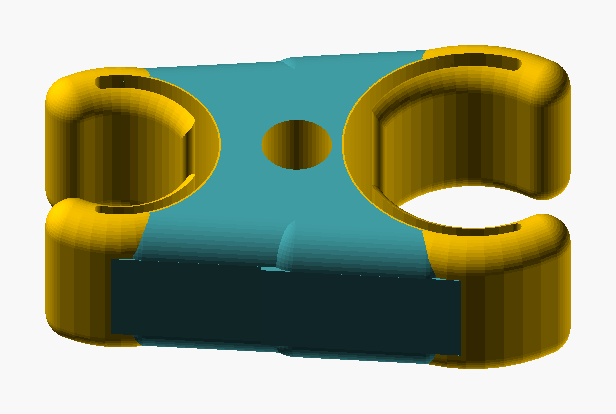
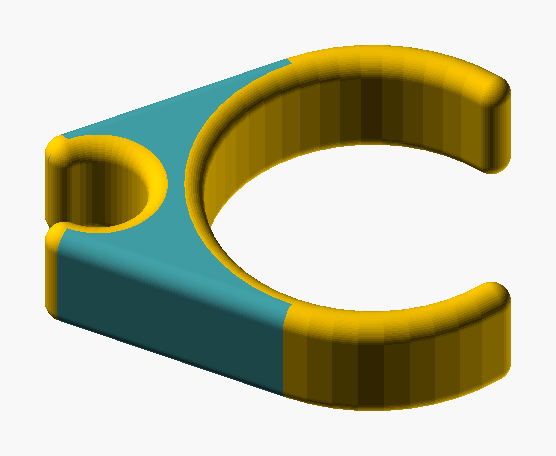
Enable TPU mode and rebuild the two-way clip bridge
Default tpu_mode on and route hose_clip through c_clip2 when set.
Rework two_way_clip as a lattice bridge between the two hose clips and
update the two_way_clip config. Lint fixes, refreshed config example,
and updated baselines.

diff --git a/models/two_way_clip.py b/models/two_way_clip.py
@@ -14,11 +14,14 @@ Render:
 
 from __future__ import annotations
 
+import math
+from math import degrees
 from typing import Final
 
-from lib.config import CONFIG, hose_clip_total_diameter
-from lib.scad import OpenSCADObjectPlus, cylinder
-from lib.standoff import hose_clip_on_standoff
+from lib.c_clip import hose_clip, hose_clip_keepout
+from lib.c_clip2 import pill3d
+from lib.config import CONFIG
+from lib.scad import OpenSCADObjectPlus
 
 EXPECTED_REGIONS: Final = 1
 
@@ -28,65 +31,29 @@ def two_way_clip() -> OpenSCADObjectPlus:
     each other, their flared arms tapered together at the hub, and the cord hole
     through it."""
     clip_config = CONFIG.two_way_clip
-    library = CONFIG.library
 
     hose_1_diameter = clip_config.hose_1_diameter
     hose_2_diameter = clip_config.hose_2_diameter
-    grip_length = clip_config.clip_grip_length
     clip_center_distance = clip_config.clip_center_distance
-    cord_hole_diameter = clip_config.cord_hole_diameter
-    backbone_wall_thickness = library.clip_backbone_wall_thickness
+    h = clip_config.clip_grip_length
+    t = CONFIG.library.clip_backbone_wall_thickness + CONFIG.library.clip_tongue_wall_thickness + CONFIG.library.clip_radial_gap
 
-    if hose_1_diameter <= 0:
-        raise ValueError("two_way_clip: hose_1_diameter must be positive")
-    if hose_2_diameter <= 0:
-        raise ValueError("two_way_clip: hose_2_diameter must be positive")
-    if grip_length <= 0:
-        raise ValueError("two_way_clip: clip_grip_length must be positive")
-    if clip_center_distance <= 0:
-        raise ValueError("two_way_clip: clip_center_distance must be positive")
-    if cord_hole_diameter <= 0:
-        raise ValueError("two_way_clip: cord_hole_diameter must be positive")
+    clip1 = hose_clip(hose_diameter=hose_1_diameter, height=h).translate(clip_center_distance/2,0,0)
+    clip2 = hose_clip(hose_diameter=hose_2_diameter, height=h).rotate(180).translate(clip_center_distance/-2,0,0)
+    clip1neg = hose_clip_keepout(hose_diameter=hose_1_diameter, height=h).translate(clip_center_distance/2,0,0)
+    clip2neg = hose_clip_keepout(hose_diameter=hose_2_diameter, height=h).rotate(180).translate(clip_center_distance/-2,0,0)
 
-    clip_1_radius = hose_clip_total_diameter(hose_1_diameter) / 2
-    clip_2_radius = hose_clip_total_diameter(hose_2_diameter) / 2
-    # Each arm flares from its own clip to the hub. Both reach the same hub
-    # width, halfway between the two clip widths, so the two tapers form one
-    # straight taper from the larger clip to the smaller one.
-    hub_width = clip_1_radius + clip_2_radius
-    if cord_hole_diameter / 2 + backbone_wall_thickness > hub_width / 2:
-        raise ValueError(
-            "two_way_clip: the cord hole leaves too little wall in the hub"
-        )
-    if cord_hole_diameter / 2 + backbone_wall_thickness > grip_length / 2:
-        raise ValueError(
-            "two_way_clip: the cord hole leaves too little wall in the hub height"
-        )
+    r1 = hose_1_diameter/2
+    r2 = hose_2_diameter/2
+    a = pill3d(h,t).translate(r1+(t/2),0,0).rotate(degrees(math.asin((r1-r2)/clip_center_distance)) + 90).translate(clip_center_distance/2,0,0)
+    b = a.mirror(0,1,0)
+    c = pill3d(h,t).translate(r2+(t/2),0,0).rotate(degrees(math.asin((r1-r2)/clip_center_distance)) + 90).translate(clip_center_distance/-2,0,0)
+    d = c.mirror(0,1,0)
 
-    # Each arm runs past the centre by the rounding radius, so its rounded base
-    # edge is buried in the other arm. Without that overlap the two rounded base
-    # edges meet at the centre and leave a groove, the divot seen from the side.
-    overlap = library.standoff_rounding_radius
+    clips = clip1 + clip2
+    if clip_config.lattice_only:
+        bridge = (a+c).hull() + (b+d).hull();
+    else:
+        bridge = (a+b+c+d).hull() - clip1neg - clip2neg
 
-    def standoff_clip(hose_diameter: float) -> OpenSCADObjectPlus:
-        """One standoff hose clip: its centre on the origin, its opening on +X
-        and its arm flaring back along -X past the hub centre."""
-        return hose_clip_on_standoff(
-            height=grip_length,
-            hose_diameter=hose_diameter,
-            standoff_height=clip_center_distance + overlap,
-            origin="center",
-            base_diameter=hub_width,
-            backbone_wall_thickness=backbone_wall_thickness,
-            round_base=False,
-        ).rotate(0, 0, -90)
-
-    # The +X clip carries hose 1. The mirror turns the opening to -X and puts
-    # the second clip on the -X side, so the pair is 180 degrees apart.
-    clips = standoff_clip(hose_1_diameter).translate(clip_center_distance, 0, 0)
-    clips += standoff_clip(hose_2_diameter).translate(
-        clip_center_distance, 0, 0
-    ).mirror(1, 0, 0)
-    cord_hole = cylinder(h=grip_length + 1, d=cord_hole_diameter, center=True)
-
-    return clips - cord_hole
+    return clips + bridge

diff --git a/lib/c_clip.py b/lib/c_clip.py
@@ -10,7 +10,8 @@ Every builder here builds centred on the origin. The caller translates.
 
 from __future__ import annotations
 
-from lib.config import CONFIG, hose_clip_total_diameter
+import lib.c_clip2
+from lib.config import CONFIG
 from lib.scad import (
     OpenSCADObjectPlus,
     cylinder,
@@ -125,9 +126,9 @@ def c_ring_rounded_two_openings(
 
 def hose_clip(
     hose_diameter: float = 12,
-    backbone_wall_thickness: float = 3,
-    radial_gap: float = 3,
-    tongue_wall_thickness: float = 1.5,
+    backbone_wall_thickness: float = CONFIG.library.clip_backbone_wall_thickness,
+    radial_gap: float = CONFIG.library.clip_radial_gap,
+    tongue_wall_thickness: float = CONFIG.library.clip_tongue_wall_thickness,
     tongue_back_angle: float = CONFIG.hardware.tongue_back_angle,
     backbone_front_angle: float = CONFIG.hardware.backbone_front_angle,
     opening_angle_offset: float = CONFIG.hardware.opening_angle_offset,
@@ -138,6 +139,21 @@ def hose_clip(
     front (+X), and `opening_angle_offset` the extra front opening of the tongue
     and of the relief cut. The angle defaults come from the `[hardware]` config
     section."""
+
+
+    if CONFIG.library.tpu_mode:
+        return lib.c_clip2.hose_clip(
+            hose_diameter=hose_diameter,
+            backbone_wall_thickness=backbone_wall_thickness,
+            radial_gap=radial_gap,
+            tongue_wall_thickness=tongue_wall_thickness,
+            tongue_back_angle=tongue_back_angle,
+            backbone_front_angle=backbone_front_angle,
+            opening_angle_offset=opening_angle_offset,
+            height=height
+        )
+
+
     if not (
         hose_diameter > 0
         and backbone_wall_thickness > 0
@@ -208,9 +224,9 @@ def hose_clip(
 
 def hose_clip_keepout(
     hose_diameter: float = 12,
-    backbone_wall_thickness: float = 3,
-    radial_gap: float = 3,
-    tongue_wall_thickness: float = 1.5,
+    backbone_wall_thickness: float = CONFIG.library.clip_backbone_wall_thickness,
+    radial_gap: float = CONFIG.library.clip_radial_gap,
+    tongue_wall_thickness: float = CONFIG.library.clip_tongue_wall_thickness,
     tongue_back_angle: float = CONFIG.hardware.tongue_back_angle,
     backbone_front_angle: float = CONFIG.hardware.backbone_front_angle,
     opening_angle_offset: float = CONFIG.hardware.opening_angle_offset,
@@ -223,6 +239,21 @@ def hose_clip_keepout(
     for symmetry with `hose_clip`, so a caller passes one argument list to a part
     and to its keep-out volume. Do not remove them; they do not change this
     volume."""
+
+
+    if CONFIG.library.tpu_mode:
+        return lib.c_clip2.hose_clip_keepout(
+            hose_diameter=hose_diameter,
+            backbone_wall_thickness=backbone_wall_thickness,
+            radial_gap=radial_gap,
+            tongue_wall_thickness=tongue_wall_thickness,
+            tongue_back_angle=tongue_back_angle,
+            backbone_front_angle=backbone_front_angle,
+            opening_angle_offset=opening_angle_offset,
+            height=height
+        )
+
+
     if not (
         hose_diameter > 0
         and backbone_wall_thickness > 0
@@ -237,13 +268,9 @@ def hose_clip_keepout(
     if not (backbone_front_angle > 0 and backbone_front_angle < 360):
         raise ValueError("hose_clip_keepout: backbone_front_angle must be in (0, 360)")
 
-    clip_total_diameter = hose_clip_total_diameter(
-        hose_diameter, backbone_wall_thickness, radial_gap, tongue_wall_thickness
-    )
-
     rough_keepout = cylinder(
-        h=height + 1, r=clip_total_diameter / 2, center=True
-    ) + pie_wedge(clip_total_diameter, backbone_front_angle, height + 1)
+        h=height + 1, d=hose_diameter + radial_gap*2, center=True
+    ) + pie_wedge(hose_diameter, backbone_front_angle, height + 1)
 
     return rough_keepout - hose_clip(
         hose_diameter=hose_diameter,

diff --git a/lib/c_clip2.py b/lib/c_clip2.py
@@ -16,7 +16,7 @@ def _pill2d(h: float, t: float, eps: float = 0) -> OpenSCADObjectPlus:
     return shape
 
 
-def _pill3d(h: float, t: float) -> OpenSCADObjectPlus:
+def pill3d(h: float, t: float) -> OpenSCADObjectPlus:
     obj = cylinder(h=h - t, r=t / 2, center=True)
     obj += sphere(r=t/2).translate([0, 0, (h - t) / 2])
     obj += sphere(r=t/2).translate([0, 0, (h - t) / -2])
@@ -25,15 +25,15 @@ def _pill3d(h: float, t: float) -> OpenSCADObjectPlus:
 def _inverse_capped_pill_arc(h: float, id: float, od: float, a: float, eps: float=0):
     t = (od - id) / 2
     obj = _pill2d(h, t, eps).translate([id / 2 + (t) / 2, 0, 0]).rotate_extrude(a)
-    obj -= _pill3d(h, t).translate([id / 2 + t / 2, 0, 0])
-    obj -= _pill3d(h, t).translate([id / 2 + t / 2, 0, 0]).rotate([0, 0, a])
+    obj -= pill3d(h, t).translate([id / 2 + t / 2, 0, 0])
+    obj -= pill3d(h, t).translate([id / 2 + t / 2, 0, 0]).rotate([0, 0, a])
     return obj.rotate(a / -2 + 180)
 
 def _pill_arc(h: float, id: float, od: float, a: float):
     t = (od - id) / 2
     obj = _pill2d(h, t).translate([id / 2 + t / 2, 0, 0]).rotate_extrude(a)
-    obj += _pill3d(h, t).translate([id / 2 + t / 2, 0, 0])
-    obj += _pill3d(h, t).translate([id / 2 + t / 2, 0, 0]).rotate([0, 0, a])
+    obj += pill3d(h, t).translate([id / 2 + t / 2, 0, 0])
+    obj += pill3d(h, t).translate([id / 2 + t / 2, 0, 0]).rotate([0, 0, a])
     return obj.rotate(a / -2 + 180)
 
 
@@ -45,13 +45,13 @@ def __bridge_arm(
 ) -> OpenSCADObjectPlus:
     t_tongue = (tongue_od-tongue_id)/2
     tongue_slice = (
-        _pill3d(h=h, t=t_tongue)
+        pill3d(h=h, t=t_tongue)
         .translate([tongue_id / 2 + t_tongue / 2, 0, 0])
         .rotate(a_tongue+180)
     )
     t_backbone = (backbone_od-backbone_id)/2
     backbone_slice = (
-        _pill3d(h=h, t=t_backbone)
+        pill3d(h=h, t=t_backbone)
         .translate([backbone_id / 2 + t_backbone / 2, 0, 0])
         .rotate(a_backbone+180)
     )
@@ -102,21 +102,6 @@ def hose_clip(
         od=backbone_od,
         a=backbone_arc_a,
     )
-
-    if not CONFIG.library.tpu_mode:
-        obj -= _pill_arc(
-            h=height*2,
-            id=tongue_od,
-            od=backbone_id,
-            a=backbone_arc_a - finger_half_angle*2
-        )
-        obj -= _inverse_capped_pill_arc(
-            h=height*2,
-            id=hose_diameter,
-            od=tongue_od,
-            a=tongue_back_angle,
-            eps=radial_gap
-        )
 
     return obj
 

diff --git a/lib/config.py b/lib/config.py
@@ -66,7 +66,7 @@ class LibraryConfig:
         2, "Radius that rounds the convex corners of a standoff footprint."
     )
     tpu_mode: bool = _field(
-        False, "Removes the gap which creates the flexible tongue. Decrease the opening angles and hose tolerance as well."
+        True, "Removes the gap which creates the flexible tongue. Decrease the opening angles and hose tolerance as well."
     )
 
 
@@ -211,15 +211,17 @@ class TwoWayClipConfig:
         "Hose in the clip on the +X side. Subtract 0.5 for a snug fit.",
     )
     hose_2_diameter: float = _field(
-        11.5,
+        27,
         "Hose in the clip on the -X side. Subtract 0.5 for a snug fit.",
     )
-    clip_grip_length: float = _field(10.0, "Length of hose each clip grips.")
     clip_center_distance: float = _field(
-        10.0, "Distance from the hub centre to each clip centre."
+        22.0, "Distance from the hub centre to each clip centre."
     )
-    cord_hole_diameter: float = _field(
-        4.0, "Diameter of the cord hole through the hub, along the hoses."
+    clip_grip_length: float = _field(
+        10.0, "Length of hose each of the two clips grips."
+    )
+    lattice_only: bool = _field(
+        False, "Whether to use minimal lattice mode."
     )
 
 

diff --git a/models/inflator_spg_combo_clip.py b/models/inflator_spg_combo_clip.py
@@ -16,7 +16,7 @@ from __future__ import annotations
 from math import acos, degrees, sqrt
 from typing import Final
 
-from lib.c_clip2 import hose_clip, hose_clip_keepout
+from lib.c_clip import hose_clip, hose_clip_keepout
 from lib.config import CONFIG, hose_clip_total_diameter
 from lib.scad import OpenSCADObjectPlus
 from lib.standoff import hose_clip_on_standoff

diff --git a/lib/standoff.py b/lib/standoff.py
@@ -8,7 +8,7 @@ from __future__ import annotations
 from collections.abc import Sequence
 from math import sqrt
 
-from lib.c_clip2 import hose_clip, hose_clip_keepout
+from lib.c_clip import hose_clip, hose_clip_keepout
 from lib.config import CONFIG, hose_clip_total_diameter
 from lib.scad import (
     OpenSCADObjectPlus,
